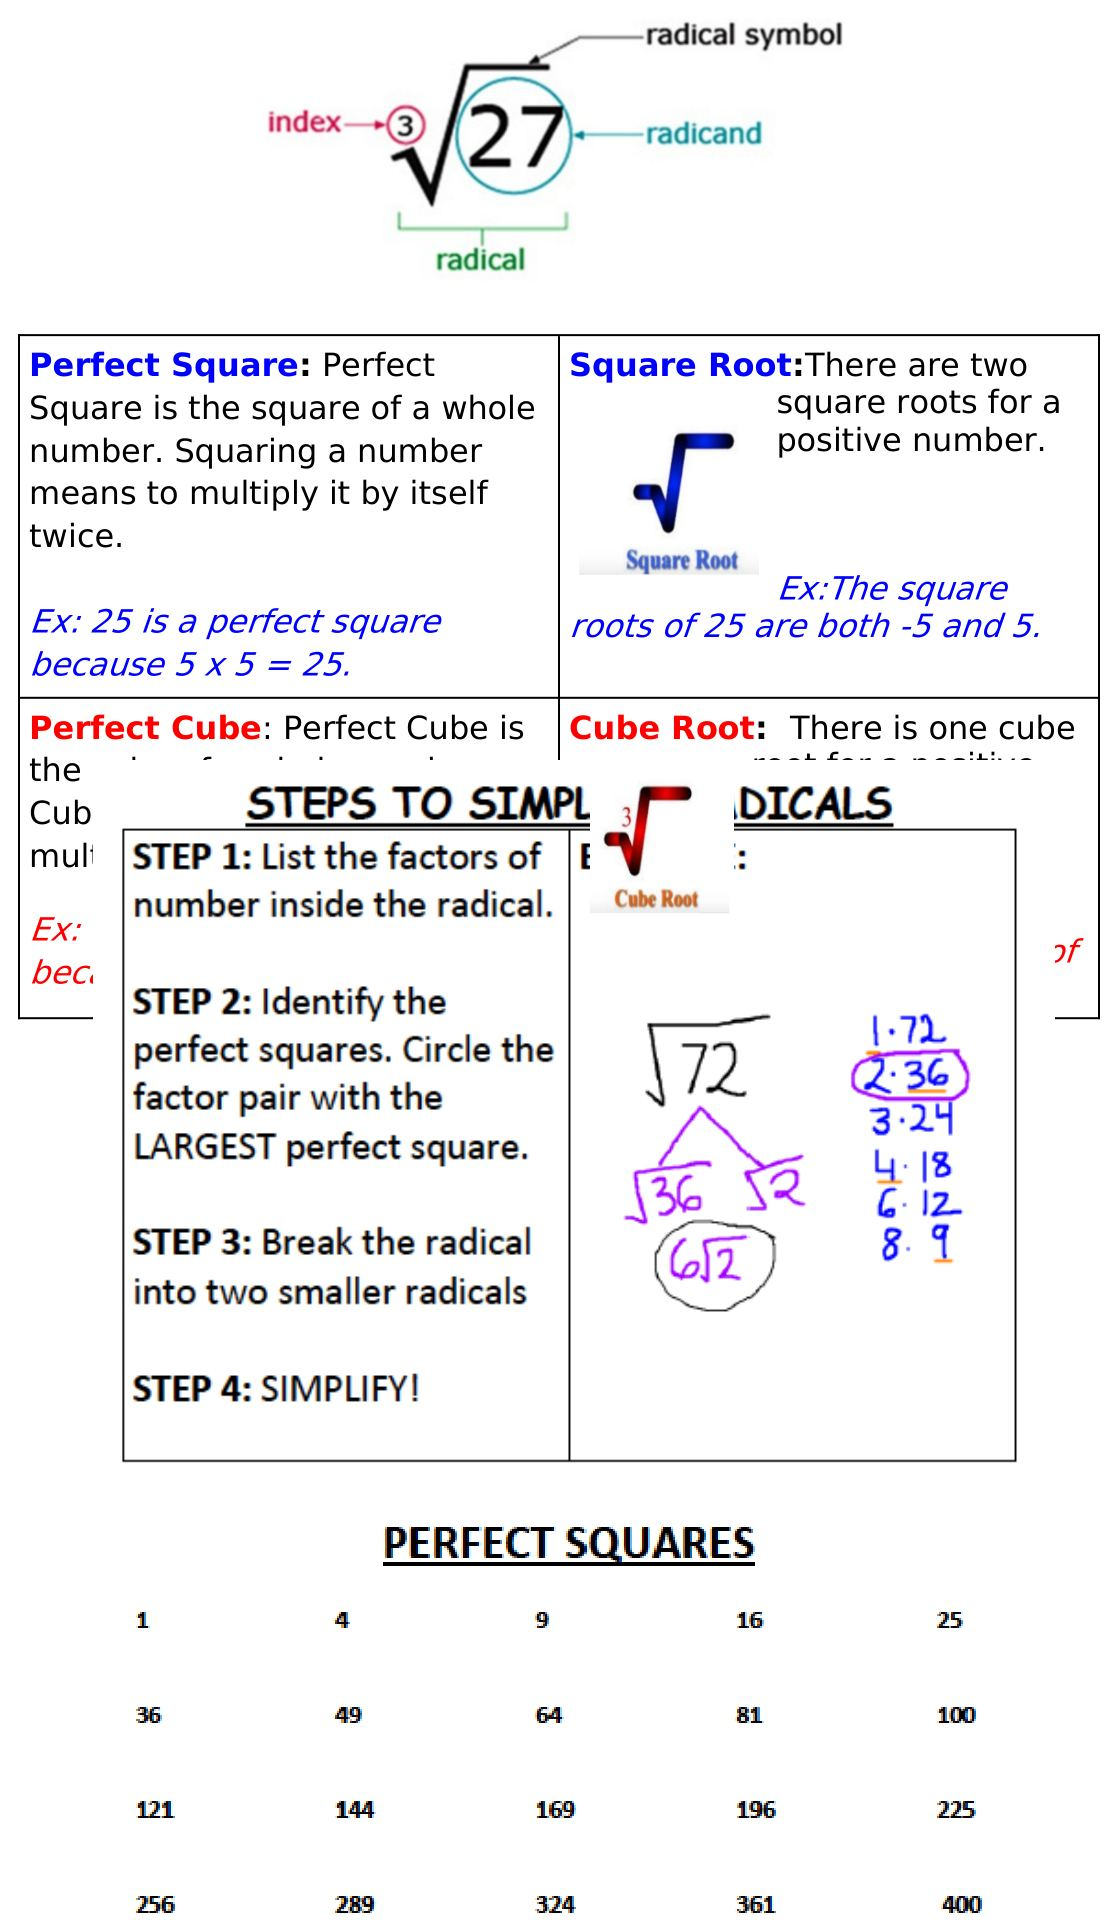
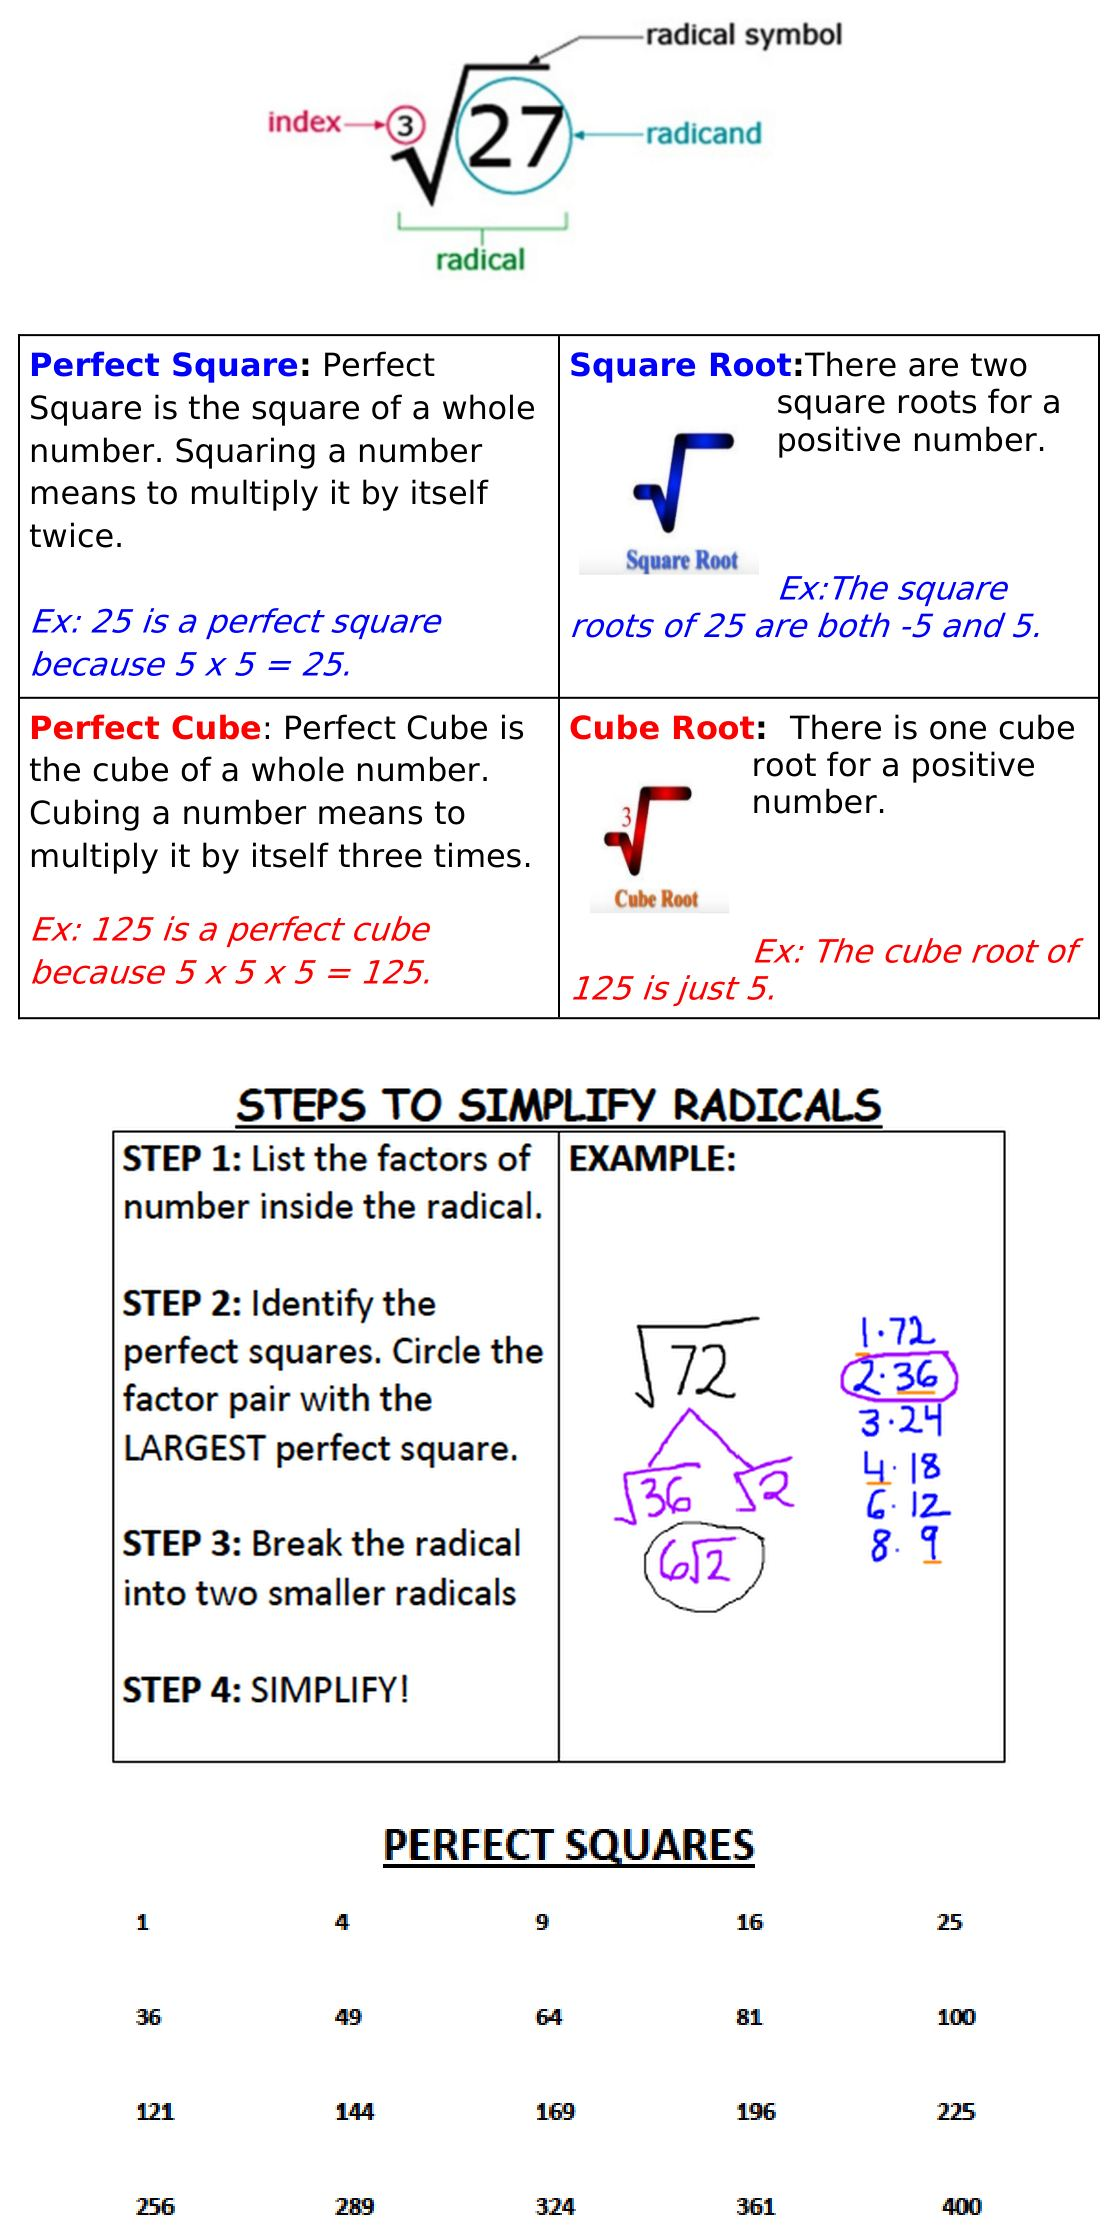
Fix overlapping content in 1.1 Square & Cube Roots scaffold image
LibreOffice paints the floating 'STEPS TO SIMPLIFY RADICALS' picture on
top of the Perfect Cube / Cube Root table when rendering the scaffolds
document, so the generated JPG had the two overlapping. The ingest
script now walks each page's drawing operations, detects pictures drawn
over already-drawn text, removes them from the page render, and stitches
the extracted picture (flattened on white, at its displayed size) below
the text instead. Regenerated the affected 1.1 image.

Claude-Session: https://claude.ai/code/session_01CLGeiBfTEuSwDky7EtBpDB

diff --git a/scripts/ingest_scaffold_images.py b/scripts/ingest_scaffold_images.py
@@ -234,6 +234,43 @@ def find_anchors(doc) -> list[tuple[int, float, str, str]]:
     return anchors
 
 
+def find_covering_images(page) -> list[tuple]:
+    """Floating pictures that LibreOffice painted on top of table text.
+
+    Walks the page's drawing operations in order; an image that is drawn
+    after text and covers several of those text spans is hiding content
+    (e.g. the "STEPS TO SIMPLIFY RADICALS" box over the 1.1 cube-root
+    table). Returns [(rect, xref), ...] for each such image so the caller
+    can lift it out of the page and place it after the text instead.
+    """
+    import fitz
+
+    text_rects: list = []
+    covering: list = []
+    for op, bbox in page.get_bboxlog():
+        r = fitz.Rect(bbox)
+        if op in ("fill-text", "stroke-text"):
+            text_rects.append(r)
+        elif op == "fill-image":
+            hidden = [
+                t for t in text_rects
+                if not (r & t).is_empty
+                and (r & t).get_area() > 0.8 * t.get_area()
+                and t.get_area() > 50
+            ]
+            if len(hidden) >= 2:
+                covering.append(r)
+    if not covering:
+        return []
+    found = []
+    for info in page.get_image_info(xrefs=True):
+        ib = fitz.Rect(info["bbox"])
+        if any(max(abs(ib.x0 - r.x0), abs(ib.y0 - r.y0),
+                   abs(ib.x1 - r.x1), abs(ib.y1 - r.y1)) < 2 for r in covering):
+            found.append((ib, info["xref"]))
+    return found
+
+
 def render_sections(pdf_path: Path) -> list[dict]:
     import fitz
     from PIL import Image, ImageChops
@@ -256,14 +293,52 @@ def render_sections(pdf_path: Path) -> list[dict]:
             min(rgb.width, r + CROP_PAD), min(rgb.height, b + CROP_PAD),
         ))
 
-    def render_clip(pno: int, y0: float, y1: float) -> Image.Image | None:
+    def render_rect(pno: int, clip) -> Image.Image | None:
+        if clip.height < 8:
+            return None
+        pix = doc[pno].get_pixmap(matrix=mat, clip=clip, alpha=False)
+        return autocrop(Image.open(io.BytesIO(pix.tobytes("png"))))
+
+    def lift_picture(xref: int, rect) -> Image.Image | None:
+        """The embedded picture itself, flattened on white and scaled to
+        the size the page displays it at."""
+        raw = doc.extract_image(xref)
+        im = Image.open(io.BytesIO(raw["image"])).convert("RGB")
+        if raw.get("smask"):
+            mask = Image.open(
+                io.BytesIO(doc.extract_image(raw["smask"])["image"])
+            ).convert("L")
+            if mask.size != im.size:
+                mask = mask.resize(im.size)
+            flat = Image.new("RGB", im.size, (255, 255, 255))
+            flat.paste(im, mask=mask)
+            im = flat
+        w = max(1, round(rect.width * ZOOM))
+        h = max(1, round(rect.height * ZOOM))
+        return autocrop(im.resize((w, h), Image.LANCZOS))
+
+    def render_clip(pno: int, y0: float, y1: float) -> list[Image.Image]:
+        """Render one vertical slice of a page, as a list of pieces.
+
+        A floating picture that the layout painted over text becomes its
+        own piece: the slice is rendered with the picture removed so the
+        text underneath shows, and the picture follows the text instead
+        of sitting on top of it.
+        """
         page = doc[pno]
         clip = fitz.Rect(0, max(0, y0), page.rect.width,
                          min(page.rect.height, y1))
-        if clip.height < 8:
-            return None
-        pix = page.get_pixmap(matrix=mat, clip=clip, alpha=False)
-        return autocrop(Image.open(io.BytesIO(pix.tobytes("png"))))
+        lifted: list[Image.Image] = []
+        for rect, xref in find_covering_images(page):
+            mid = (rect.y0 + rect.y1) / 2
+            if not (clip.y0 <= mid < clip.y1):
+                continue
+            im = lift_picture(xref, rect)
+            if im is not None:
+                lifted.append(im)
+            page.delete_image(xref)
+        base = render_rect(pno, clip)
+        return ([base] if base is not None else []) + lifted
 
     def stitch(pieces: list[Image.Image]) -> Image.Image:
         w = max(p.width for p in pieces)
@@ -292,9 +367,7 @@ def render_sections(pdf_path: Path) -> list[dict]:
         for pno in range(page, end_page + 1):
             y0 = y if pno == page else 0.0
             y1 = end_y if pno == end_page else doc[pno].rect.height
-            im = render_clip(pno, y0, y1)
-            if im is not None:
-                pieces.append(im)
+            pieces += render_clip(pno, y0, y1)
         if not pieces:
             print(f"warning: section {lesson} “{title}” rendered empty")
             continue
